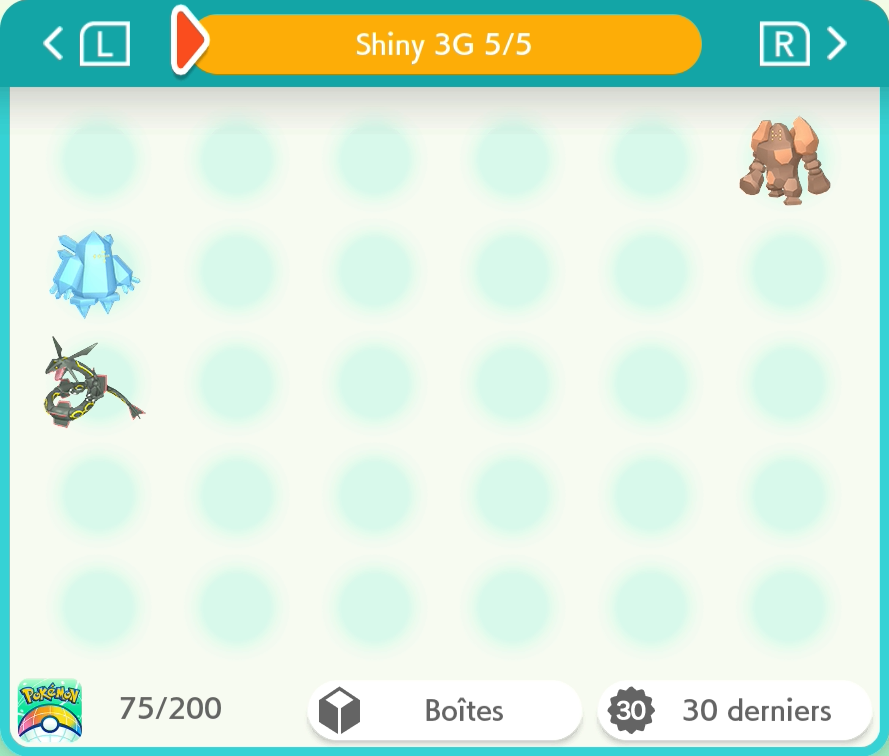
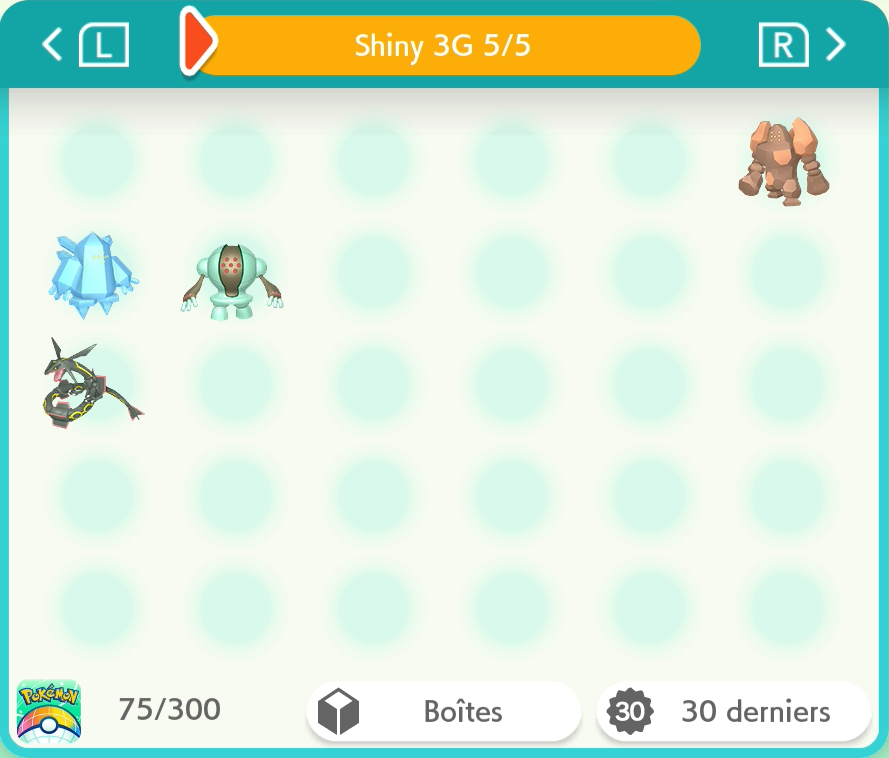
Dossier Screenshots + 3G : Registeel

diff --git a/README.md b/README.md
@@ -2,14 +2,14 @@
 
 Pokémon-Elément-Sh -> <a href="https://www.pokemon-element-sh.fr/profil/karyno21" target="_blank">Karyno21</a>
 
-↓ Dernière Update le 05/10/2026 à 14h54 ↓
-### Dex 1-9G [284/1001] +23
+↓ Dernière Update le 07/10/2026 à 15h40 ↓
+### Dex 1-9G [285/1001] +24
 
 | Gen | Prog | Notes |
 |:--:|:--:|---|
 |1G|48/151|+4 Artikodin, Électhor, Sulfura & Ptéra|
 |2G|38/100|+6 Celebi, Raikou, Entei, Suicune, Lugia & Ho-Oh|
-|3G|24/135|+3 Spinda, Regirock & Regice|
+|3G|25/135|+3 Spinda, Regirock, Regice & Registeel|
 |4G|20/107||
 |5G|29/155|+1 Genesect (JP Event)|
 |6G|27/71|+5 Amagara, Dragmara, Ptyranidur, Volcanion (HOME) & Diancie (JP Event)|
@@ -26,7 +26,7 @@ Pokémon-Elément-Sh -> <a href="https://www.pokemon-element-sh.fr/profil/karyno
 |Hisui|17/17|Complété|
 |Paldea|4/4|Complété|
 
-### Total [342/1059] +23
+### Total [343/1059] +24
 
 ---
 
